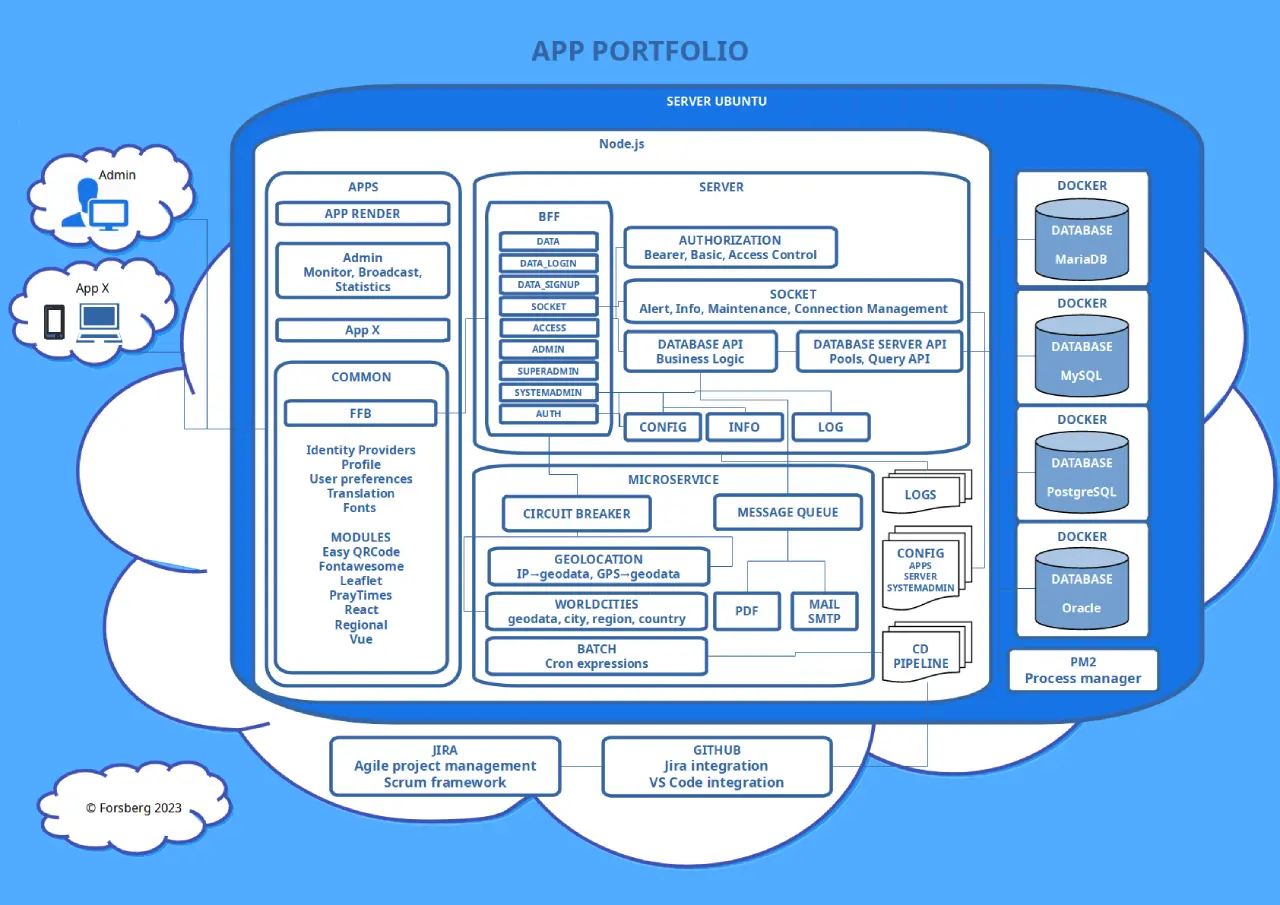
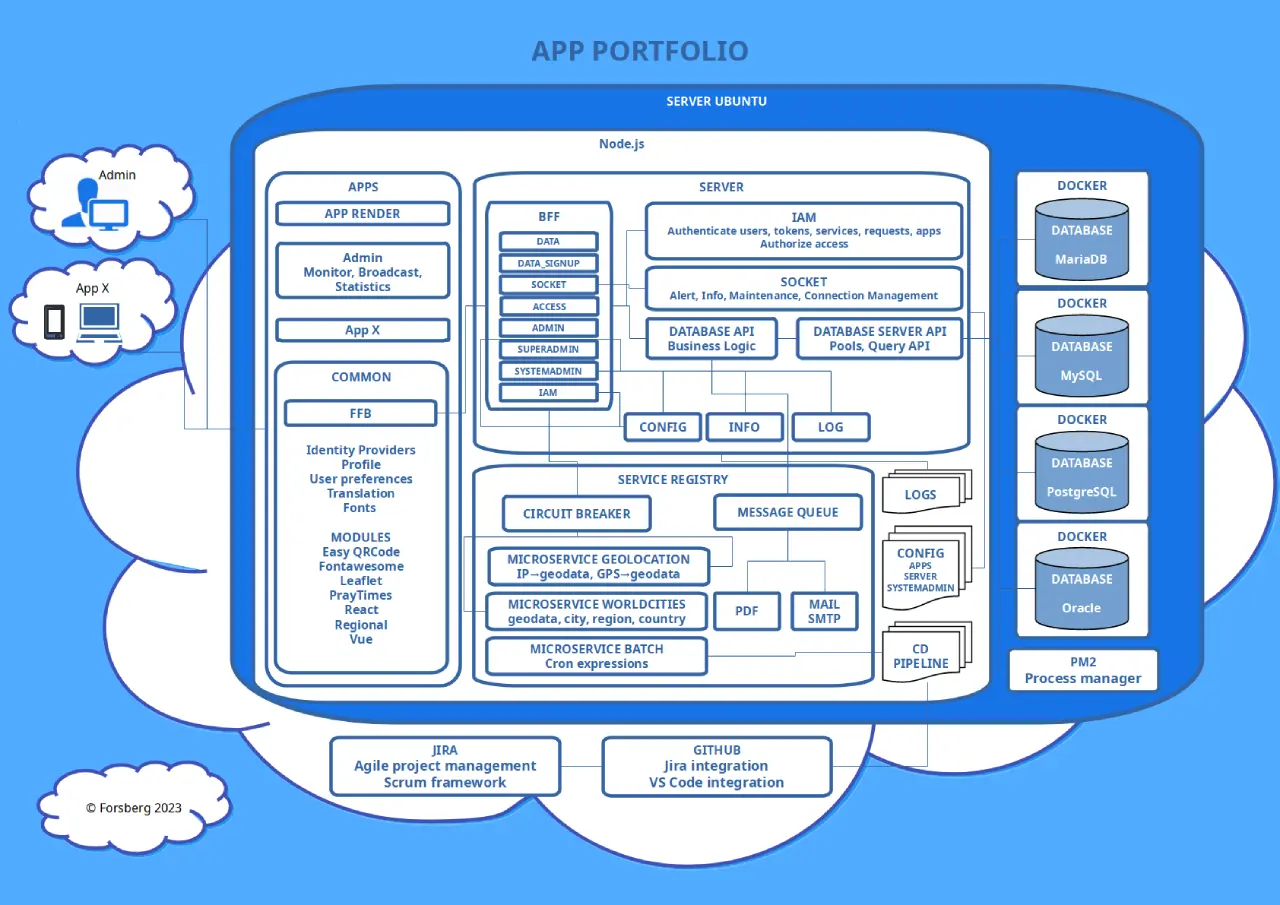
APB-723 replaces user and provider login with using BFF IAM and IAM routes, removes BFF_data_login and DATA_LOGIN, changes all login to POST method, updates diagram with BFF IAM, removed DATA LOGIN and renames AUTHORIZATION TO IAM, renames MICROSERVICE title to SERVICE REGISTRY and adds MICROSERVICE

diff --git a/apps/common/public/js/common.js b/apps/common/public/js/common.js
@@ -1903,13 +1903,12 @@ const user_login = async (username, password, callBack) => {
         return callBack('ERROR', null);
     }
     // ES6 object spread operator for user variables
-    const json_data = { app_id:    COMMON_GLOBAL.app_id,
-                        username:  encodeURI(username),
+    const json_data = { username:  encodeURI(username),
                         password:  encodeURI(password),
                         ...get_uservariables()
                     };
 
-    FFB ('DB_API', '/user_account/login?', 'PUT', 'DATA_LOGIN', json_data, (err, result) => {
+    FFB ('IAM', '/user?', 'POST', 'IAM', json_data, (err, result) => {
         if (err)
             return callBack(err, null);
         else{
@@ -2522,7 +2521,8 @@ const ProviderUser_update = async (identity_provider_id, profile_id, profile_fir
     convert_image(profile_image_url, 
                   COMMON_GLOBAL.image_avatar_width,
                   COMMON_GLOBAL.image_avatar_height).then((profile_image)=>{
-        const json_data ={  app_id:                 COMMON_GLOBAL.app_id,
+        const json_data ={  username:               null,
+                            password:               null,
                             active:                 1,
                             identity_provider_id:   identity_provider_id,
                             provider_id:            profile_id,
@@ -2533,7 +2533,7 @@ const ProviderUser_update = async (identity_provider_id, profile_id, profile_fir
                             provider_email:         profile_email,
                             ...get_uservariables()
                         };
-        FFB ('DB_API', `/user_account/provider?PUT_ID=${profile_id}`, 'PUT', 'DATA_LOGIN', json_data, (err, result) => {
+        FFB ('IAM', `/provider?PUT_ID=${profile_id}`, 'POST', 'IAM', json_data, (err, result) => {
             if (err)
                 return callBack(err, null);
             else{
@@ -2989,10 +2989,10 @@ const FFB = async (service, path, method, authorization_type, json_data, callBac
             bff_path = `${COMMON_GLOBAL.rest_resource_bff}/data`;
             break;
         }
-        case 'DATA_LOGIN':{
-            //data token login authorization check
-            authorization = `Bearer ${COMMON_GLOBAL.rest_dt}`;
-            bff_path = `${COMMON_GLOBAL.rest_resource_bff}/data_login`;
+        case 'IAM':{
+            //user,admin or system admin login
+            authorization = `Basic ${window.btoa(json_data.username + ':' + json_data.password)}`;
+            bff_path = `${COMMON_GLOBAL.rest_resource_bff}/iam`;
             break;
         }
         case 'DATA_SIGNUP':{
@@ -3017,17 +3017,9 @@ const FFB = async (service, path, method, authorization_type, json_data, callBac
             break;
         }
         case 'SYSTEMADMIN':{
-            if (service=='IAM'){
-                //admin login authorization post
-                authorization = `Basic ${window.btoa(json_data.username + ':' + json_data.password)}`;
-                json_data = null;
-                bff_path = `${COMMON_GLOBAL.rest_resource_bff}/iam`;
-            }
-            else{
-                //systemadmin authorization
-                authorization = `Bearer ${COMMON_GLOBAL.rest_admin_at}`;
-                bff_path = `${COMMON_GLOBAL.rest_resource_bff}/systemadmin`;
-            }
+            //systemadmin authorization
+            authorization = `Bearer ${COMMON_GLOBAL.rest_admin_at}`;
+            bff_path = `${COMMON_GLOBAL.rest_resource_bff}/systemadmin`;
             break;
         }
         case 'SOCKET':{

diff --git a/server/express/server.js b/server/express/server.js
@@ -67,7 +67,7 @@ const req_log = (req) => {  switch (ConfigGet('SERVICE_LOG', 'REQUEST_LEVEL')){
  */
  const serverExpressRoutes = async (app) => {
     //apps
-    const { BFF_data, BFF_data_login, BFF_data_signup, BFF_access, BFF_admin, BFF_superadmin, BFF_systemadmin, BFF_socket, BFF_iam} = await import(`file://${process.cwd()}/server/bff.js`);
+    const { BFF_data, BFF_data_signup, BFF_access, BFF_admin, BFF_superadmin, BFF_systemadmin, BFF_socket, BFF_iam} = await import(`file://${process.cwd()}/server/bff.js`);
     
     //auth
     const iam = await import(`file://${process.cwd()}/server/iam.js`);
@@ -77,7 +77,6 @@ const req_log = (req) => {  switch (ConfigGet('SERVICE_LOG', 'REQUEST_LEVEL')){
     app.route('/server/bff/data').patch           (iam.AuthenticateDataToken, BFF_data);
     app.route('/server/bff/data').post            (iam.AuthenticateDataToken, BFF_data);
     app.route('/server/bff/data').put             (iam.AuthenticateDataToken, BFF_data);
-    app.route('/server/bff/data_login').put       (iam.AuthenticateDataTokenLogin, BFF_data_login);
     app.route('/server/bff/data_signup').post     (iam.AuthenticateDataTokenRegistration, BFF_data_signup);
     app.route('/server/bff/access').delete        (iam.AuthenticateAccessToken, BFF_access);
     app.route('/server/bff/access').get           (iam.AuthenticateAccessToken, BFF_access);
@@ -97,7 +96,6 @@ const req_log = (req) => {  switch (ConfigGet('SERVICE_LOG', 'REQUEST_LEVEL')){
     app.route('/server/bff/systemadmin').put      (iam.AuthenticateAccessTokenSystemAdmin, BFF_systemadmin);    
     app.route('/server/bff/socket').get           (iam.AuthenticateSocket, BFF_socket);
     app.route('/server/bff/iam').post             (iam.AuthenticateIAM, BFF_iam);
-
 };
 /**
  * server Express

diff --git a/server/bff.js b/server/bff.js
@@ -63,15 +63,6 @@ const BFF = (app_id, endpoint, service_called, parameters, ip, method, authoriza
     BFF(getNumberValue(req.query.app_id), 'DATA', req.query.service, req.query.parameters, req.ip, req.method, req.headers.authorization, req.headers.host, req.headers['user-agent'], req.headers['accept-language'], req.body, getNumberValue(req.query.user_account_logon_user_account_id), res);
 };
 /**
- * Backend for frontend (BFF) data login
- * 
- * @param {Types.req} req - Request
- * @param {Types.res} res
- */
- const BFF_data_login = (req, res) =>{
-    BFF(getNumberValue(req.query.app_id), 'DATA_LOGIN', req.query.service, req.query.parameters, req.ip, req.method, req.headers.authorization, req.headers.host, req.headers['user-agent'], req.headers['accept-language'], req.body, getNumberValue(req.query.user_account_logon_user_account_id), res);
-};
-/**
  * Backend for frontend (BFF) data signup
  * 
  * @param {Types.req} req - Request
@@ -136,4 +127,4 @@ const BFF_socket = (req, res) =>{
 const BFF_iam = (req, res) =>{
     BFF(getNumberValue(req.query.app_id), 'IAM', req.query.service, req.query.parameters, req.ip, req.method, req.headers.authorization, req.headers.host, req.headers['user-agent'], req.headers['accept-language'], req.body, getNumberValue(req.query.user_account_logon_user_account_id), res);
 };
-export{BFF_data, BFF_data_login, BFF_data_signup, BFF_access, BFF_admin, BFF_superadmin, BFF_systemadmin, BFF_socket, BFF_iam};
+export{BFF_data, BFF_data_signup, BFF_access, BFF_admin, BFF_superadmin, BFF_systemadmin, BFF_socket, BFF_iam};

diff --git a/server/server.service.js b/server/server.service.js
@@ -120,20 +120,20 @@ const COMMON = {
     return new Promise((resolve, reject)=>{
         try {
             switch (endpoint + '_' + service + '_' + routeFunction + '_' + method){
-                case 'IAM_IAM_/IAM/SYSTEMADMIN_POST':{
+                case 'IAM_IAM_/SYSTEMADMIN_POST':{
                     resolve(iam.AuthenticateSystemadmin(app_id, authorization, res));
+                    break;
+                }
+                case 'IAM_IAM_/USER_POST':{
+                    resolve(db_user_account.login(app_id, ip, user_agent, host, query, data, res));
+                    break;
+                }
+                case 'IAM_IAM_/PROVIDER_POST':{
+                    resolve(db_user_account.login_provider(app_id, ip, user_agent, query, data, res));
                     break;
                 }
                 case 'DATA_APP_/APPS_GET':{
                     resolve(app.getApps(app_id, query));
-                    break;
-                }
-                case 'DATA_LOGIN_DB_API_/USER_ACCOUNT/LOGIN_PUT':{
-                    resolve(db_user_account.login(app_id, ip, user_agent, host, query, data, res));
-                    break;
-                }
-                case 'DATA_LOGIN_DB_API_/USER_ACCOUNT/PROVIDER_PUT':{
-                    resolve(db_user_account.login_provider(app_id, ip, user_agent, query, data, res));
                     break;
                 }
                 case 'DATA_SIGNUP_DB_API_/USER_ACCOUNT/SIGNUP_POST':{

diff --git a/server/dbapi/object/user_account.js b/server/dbapi/object/user_account.js
@@ -70,7 +70,7 @@ const login = (app_id, ip, user_agent, host, query, data, res) =>{
             if (result_login[0]) {
                 compare(data.password, result_login[0].password).then((result_password)=>{
                     const data_body = { user_account_id:    getNumberValue(result_login[0].id),
-                                        app_id:             getNumberValue(data.app_id),
+                                        app_id:             app_id,
                                         result:             Number(result_password),
                                         client_ip:          ip,
                                         client_user_agent:  user_agent,
@@ -206,7 +206,6 @@ const login_provider = (app_id, ip, user_agent, query, data, res) =>{
                                 provider_email:         data.provider_email,
                                 admin:                  0};
             const data_login = {user_account_id:        data.user_account_id,
-                                app_id:                 data.app_id,
                                 result:                 1,
                                 client_ip:              ip,
                                 client_user_agent:      user_agent,

diff --git a/apps/admin/public/js/admin.js b/apps/admin/public/js/admin.js
@@ -83,8 +83,8 @@ const admin_login = async () => {
                 return;
             }
         }
-        common.FFB ('IAM', '/iam/systemadmin?', 'POST', 'SYSTEMADMIN', {username: encodeURI(document.querySelector('#system_admin_login_username_input').value),
-                                                        password: encodeURI(document.querySelector('#system_admin_login_password_input').value)}, (err, result_login) => {
+        common.FFB ('IAM', '/systemadmin?', 'POST', 'IAM', {username: encodeURI(document.querySelector('#system_admin_login_username_input').value),
+                                                            password: encodeURI(document.querySelector('#system_admin_login_password_input').value)}, (err, result_login) => {
             document.querySelector('#admin_login_button').innerHTML = old_button;
             if (err)
                 null;

diff --git a/server/dbapi/app_portfolio/user_account_logon.service.js b/server/dbapi/app_portfolio/user_account_logon.service.js
@@ -81,7 +81,7 @@ const insertUserAccountLogon = async (app_id, data) => {
 				VALUES(:user_account_id, :app_id, :result_insert,:access_token,:client_ip,:client_user_agent, :client_longitude, :client_latitude, CURRENT_TIMESTAMP) `;
 	const parameters = {
 						user_account_id: data.user_account_id,
-						app_id: data.app_id,
+						app_id: app_id,
 						result_insert: data.result,
 						access_token: data.access_token,
 						client_ip: data.client_ip,

diff --git a/types.js b/types.js
@@ -1532,7 +1532,6 @@
  * @typedef {{  login:number}} db_result_user_account_logon_Checklogin
  * @typedef {{  access_token:string,
  *              user_account_id:number,
- *              app_id:number,
  *              result:number,
  *              client_ip:string,
  *              client_user_agent:string,
